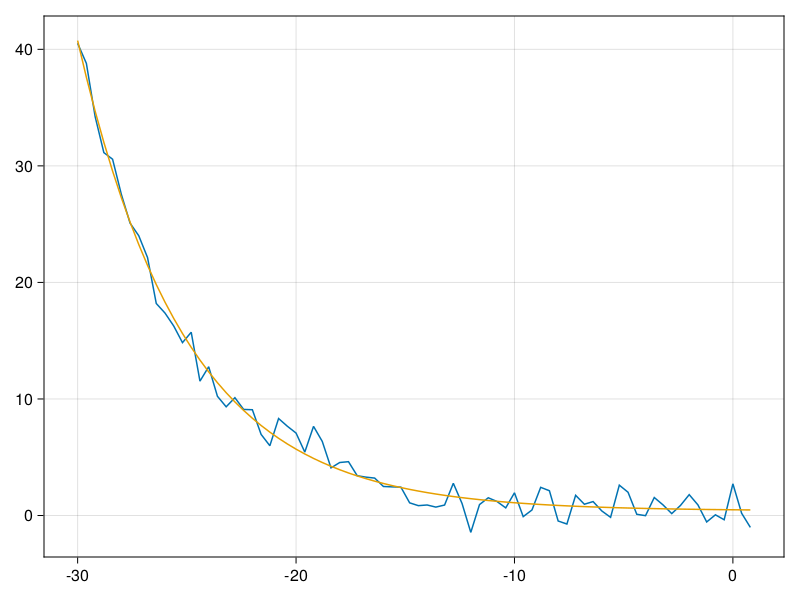
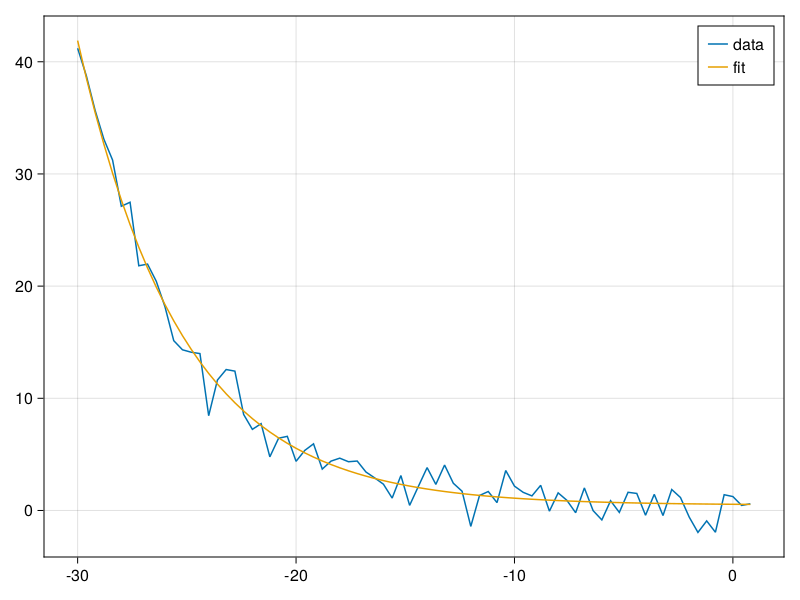
build based on 02fb032

diff --git a/dev/index.html b/dev/index.html
@@ -17,4 +17,4 @@ display(fig)
 ax = Axis(fig[1, 1])
 lines!(ax, xdata, ydata, label = &quot;data&quot;)
 lines!(ax, xdata, exponential(xdata, params), label = &quot;fit&quot;)
-axislegend(ax)</code></pre><p><img src="assets/fit.png" alt="exponential fit image"/></p><h2 id="General-Functions"><a class="docs-heading-anchor" href="#General-Functions">General Functions</a><a id="General-Functions-1"></a><a class="docs-heading-anchor-permalink" href="#General-Functions" title="Permalink"></a></h2><p>Common functions and lineshapes for spectroscopy.</p><article class="docstring"><header><a class="docstring-binding" id="Models.exponential-Tuple{Any}" href="#Models.exponential-Tuple{Any}"><code>Models.exponential</code></a> — <span class="docstring-category">Method</span></header><section><div><p>Exponential decay function</p><p><span>$f(x; f_0, \tau, y_0) = f_0 e^{-x / \tau} + y_0$</span></p><p><a href="https://en.wikipedia.org/wiki/Exponential_decay">https://en.wikipedia.org/wiki/Exponential_decay</a></p></div><a class="docs-sourcelink" target="_blank" href="https://github.com/garrekstemo/Models.jl/blob/4ae29effc984928fe6560df9f99cc352edb79af1/src/functions.jl#L1-L7">source</a></section></article><article class="docstring"><header><a class="docstring-binding" id="Models.double_exponential-Tuple{Any}" href="#Models.double_exponential-Tuple{Any}"><code>Models.double_exponential</code></a> — <span class="docstring-category">Method</span></header><section><div><p>Exponential decay function with two stages represented by two different time constants.</p><p><span>$f(x; f_1, \tau_1, f_2, \tau_2, y_0) = f_1 e^{-x / \tau_1} + f_2 e^{-x / \tau_2} + y_0$</span></p></div><a class="docs-sourcelink" target="_blank" href="https://github.com/garrekstemo/Models.jl/blob/4ae29effc984928fe6560df9f99cc352edb79af1/src/functions.jl#L12-L18">source</a></section></article><article class="docstring"><header><a class="docstring-binding" id="Models.gaussian-Tuple{Any}" href="#Models.gaussian-Tuple{Any}"><code>Models.gaussian</code></a> — <span class="docstring-category">Method</span></header><section><div><p>Gaussian function</p><p><span>$f(x; A, \mu, \sigma, y_0) = \frac{A}{\sigma \sqrt{2\pi}} e^{-(x - \mu)^2 / (2 \sigma^2)} + y_0$</span></p><p><a href="https://en.wikipedia.org/wiki/Gaussian_function">https://en.wikipedia.org/wiki/Gaussian_function</a></p></div><a class="docs-sourcelink" target="_blank" href="https://github.com/garrekstemo/Models.jl/blob/4ae29effc984928fe6560df9f99cc352edb79af1/src/functions.jl#L24-L30">source</a></section></article><article class="docstring"><header><a class="docstring-binding" id="Models.gaussian2d-Tuple{Any, Any}" href="#Models.gaussian2d-Tuple{Any, Any}"><code>Models.gaussian2d</code></a> — <span class="docstring-category">Method</span></header><section><div><p>Two-dimensional Gaussian function</p><p><span>$f(x, y; A, x_0, \sigma_x, y_0, \sigma_y, z_0) = A \exp\left(-\left( \frac{(x - x_0)^2}{2 \sigma_x^2} + \frac{(y - y_0)^2}{2 \sigma_y^2} \right)\right) + z_0$</span></p></div><a class="docs-sourcelink" target="_blank" href="https://github.com/garrekstemo/Models.jl/blob/4ae29effc984928fe6560df9f99cc352edb79af1/src/functions.jl#L36-L40">source</a></section></article><article class="docstring"><header><a class="docstring-binding" id="Models.lorentzian-Tuple{Any}" href="#Models.lorentzian-Tuple{Any}"><code>Models.lorentzian</code></a> — <span class="docstring-category">Method</span></header><section><div><p>Lorentzian function with amplitude <span>$A$</span>, center frequency <span>$\nu_0$</span>, and full width at half maximum (FWHM) <span>$2\gamma$</span>.</p><p><span>$f(\nu; A, \nu_0, \gamma, y_0) = \frac{A}{\pi} \frac{\gamma}{(\nu - \nu_0)^2 + \gamma^2} + y_0$</span></p><p><a href="https://en.wikipedia.org/wiki/Cauchy_distribution">https://en.wikipedia.org/wiki/Cauchy_distribution</a></p></div><a class="docs-sourcelink" target="_blank" href="https://github.com/garrekstemo/Models.jl/blob/4ae29effc984928fe6560df9f99cc352edb79af1/src/functions.jl#L53-L59">source</a></section></article><article class="docstring"><header><a class="docstring-binding" id="Models.double_lorentzian-Tuple{Any}" href="#Models.double_lorentzian-Tuple{Any}"><code>Models.double_lorentzian</code></a> — <span class="docstring-category">Method</span></header><section><div><p>Sum of two Lorentzian functions.</p></div><a class="docs-sourcelink" target="_blank" href="https://github.com/garrekstemo/Models.jl/blob/4ae29effc984928fe6560df9f99cc352edb79af1/src/functions.jl#L66-L68">source</a></section></article><article class="docstring"><header><a class="docstring-binding" id="Models.sine-Tuple{Any}" href="#Models.sine-Tuple{Any}"><code>Models.sine</code></a> — <span class="docstring-category">Method</span></header><section><div><p>Sinusoidal function.</p></div><a class="docs-sourcelink" target="_blank" href="https://github.com/garrekstemo/Models.jl/blob/4ae29effc984928fe6560df9f99cc352edb79af1/src/functions.jl#L75-L77">source</a></section></article><article class="docstring"><header><a class="docstring-binding" id="Models.squared_errors-NTuple{4, Any}" href="#Models.squared_errors-NTuple{4, Any}"><code>Models.squared_errors</code></a> — <span class="docstring-category">Method</span></header><section><div><p>Squared errors</p><p>Takes a function, <code>f</code>, and its parameters, <code>p</code> and sums the squared errors given x-data and y-data <code>X</code> and <code>Y</code>, respectively.</p></div><a class="docs-sourcelink" target="_blank" href="https://github.com/garrekstemo/Models.jl/blob/4ae29effc984928fe6560df9f99cc352edb79af1/src/functions.jl#L83-L89">source</a></section></article><h2 id="Special-Functions"><a class="docs-heading-anchor" href="#Special-Functions">Special Functions</a><a id="Special-Functions-1"></a><a class="docs-heading-anchor-permalink" href="#Special-Functions" title="Permalink"></a></h2><p>These function are specific to cavity polariton research, where things like the cavity transmittance, material dielectric function, and cavity free spectral range (FSR) need to be calculated and modeled.</p><article class="docstring"><header><a class="docstring-binding" id="Models.cavity_transmittance-Tuple{Any, Any}" href="#Models.cavity_transmittance-Tuple{Any, Any}"><code>Models.cavity_transmittance</code></a> — <span class="docstring-category">Method</span></header><section><div><p>Cavity transmittance as a function of frequency.</p><p><span>$T(\nu) = \frac{T^2 e^{-\alpha L}}{1 + R^2 e^{-2 \alpha L} - 2 R e^{-\alpha L} \cos(4\pi n L \nu + 2\phi)},$</span></p><p>where <span>$\nu$</span> is the frequency, <span>$\alpha$</span> and <span>$n$</span> are the frequency-dependent absorption and refractive index, <span>$L$</span> is the cavity length, and <span>$\phi$</span> is the phase accumulated upon reflection against a mirror. <span>$T$</span> and <span>$R$</span> are the cavity transmittance and reflectance, respectively, where it is assumed that <span>$T = 1 - R$</span>.</p></div><a class="docs-sourcelink" target="_blank" href="https://github.com/garrekstemo/Models.jl/blob/4ae29effc984928fe6560df9f99cc352edb79af1/src/special_functions.jl#L67-L76">source</a></section></article><article class="docstring"><header><a class="docstring-binding" id="Models.dielectric_real-Tuple{Any, Any}" href="#Models.dielectric_real-Tuple{Any, Any}"><code>Models.dielectric_real</code></a> — <span class="docstring-category">Method</span></header><section><div><p>Frequency-dependent real part of the dielectric function in terms of the background index and Lorentzian oscillator,</p><p><span>$\varepsilon_1(\nu) = n^2 + \frac{A (\nu_0^2 - \nu^2)}{(\nu^2 - \nu_0^2)^2 + (\Gamma\nu)^2},$</span></p><p>where <span>$n$</span> is the background real index, <span>$\nu_0$</span> is the excitation frequency, <span>$\Gamma$</span> is the line width of the oscillator, and <span>$A$</span> is the  oscillator strength.</p></div><a class="docs-sourcelink" target="_blank" href="https://github.com/garrekstemo/Models.jl/blob/4ae29effc984928fe6560df9f99cc352edb79af1/src/special_functions.jl#L1-L10">source</a></section></article><article class="docstring"><header><a class="docstring-binding" id="Models.dielectric_imag-Tuple{Any, Any}" href="#Models.dielectric_imag-Tuple{Any, Any}"><code>Models.dielectric_imag</code></a> — <span class="docstring-category">Method</span></header><section><div><p>Frequency-dependent imaginary part of the dielectric function.</p><p><span>$\varepsilon_2(\nu) = \frac{A \Gamma \nu}{(\nu^2 - \nu_0^2)^2 + (\Gamma\nu)^2}$</span></p></div><a class="docs-sourcelink" target="_blank" href="https://github.com/garrekstemo/Models.jl/blob/4ae29effc984928fe6560df9f99cc352edb79af1/src/special_functions.jl#L16-L20">source</a></section></article><article class="docstring"><header><a class="docstring-binding" id="Models.cavity_mode_energy-Tuple{Any, Any}" href="#Models.cavity_mode_energy-Tuple{Any, Any}"><code>Models.cavity_mode_energy</code></a> — <span class="docstring-category">Method</span></header><section><div><p>Cavity mode energy as a function of incident angle.</p><p><span>$E_\text{cavity}(\theta) = E_0 \left( 1 - \frac{\sin^2(\theta)}{n^2} \right)^{-1/2},$</span></p><p>where <span>$E_0$</span> is the energy of the cavity mode at zero degrees incidence angle.</p></div><a class="docs-sourcelink" target="_blank" href="https://github.com/garrekstemo/Models.jl/blob/4ae29effc984928fe6560df9f99cc352edb79af1/src/special_functions.jl#L26-L33">source</a></section></article><article class="docstring"><header><a class="docstring-binding" id="Models.coupled_energies" href="#Models.coupled_energies"><code>Models.coupled_energies</code></a> — <span class="docstring-category">Function</span></header><section><div><p>Coupled energies found by diagonalizing the coupled-oscillator model Hamiltonian:</p><p><span>$H =  \begin{pmatrix} E_c(\theta) &amp; V/2 \\V/2 &amp; E_v \end{pmatrix}.$</span></p><p>Diagonalizing <span>$H$</span> gives the interaction energies as a function of <span>$\theta$</span>. These exhibit avoided crossing behavior near  where the cavity mode energy equals the material excitation energy.</p><p><span>$V_{\pm}(\theta) = \frac{1}{2}(E_c(\theta) + E_v) \pm \frac{1}{2} \sqrt{(E_c(\theta) - E_v)^2 + V^2}$</span></p><p><a href="https://en.wikipedia.org/wiki/Avoided_crossing">https://en.wikipedia.org/wiki/Avoided_crossing</a></p></div><a class="docs-sourcelink" target="_blank" href="https://github.com/garrekstemo/Models.jl/blob/4ae29effc984928fe6560df9f99cc352edb79af1/src/special_functions.jl#L39-L56">source</a></section></article><article class="docstring"><header><a class="docstring-binding" id="Models.fsr-Tuple{Vector{Float64}}" href="#Models.fsr-Tuple{Vector{Float64}}"><code>Models.fsr</code></a> — <span class="docstring-category">Method</span></header><section><div><p>Find the free spectral range for all adjacent peaks. Return the list of FSRs, the average FSR for the range, and the standard deviation.</p></div><a class="docs-sourcelink" target="_blank" href="https://github.com/garrekstemo/Models.jl/blob/4ae29effc984928fe6560df9f99cc352edb79af1/src/special_functions.jl#L82-L86">source</a></section></article><article class="docstring"><header><a class="docstring-binding" id="Models.fsr-Tuple{Float64, Float64}" href="#Models.fsr-Tuple{Float64, Float64}"><code>Models.fsr</code></a> — <span class="docstring-category">Method</span></header><section><div><p>Solve for one of three variables in the equation     for free spectral range in terms of the other two.</p><p><span>$\Delta \nu = \frac{1}{2 L n},$</span></p><p>where <span>$\Delta\nu = |\nu_2 - \nu_2|$</span>, <span>$L$</span> is the intracavity length, and <span>$n$</span> is intracavity index of refraction.</p></div><a class="docs-sourcelink" target="_blank" href="https://github.com/garrekstemo/Models.jl/blob/4ae29effc984928fe6560df9f99cc352edb79af1/src/special_functions.jl#L98-L106">source</a></section></article></article><nav class="docs-footer"><p class="footer-message">Powered by <a href="https://github.com/JuliaDocs/Documenter.jl">Documenter.jl</a> and the <a href="https://julialang.org/">Julia Programming Language</a>.</p></nav></div><div class="modal" id="documenter-settings"><div class="modal-background"></div><div class="modal-card"><header class="modal-card-head"><p class="modal-card-title">Settings</p><button class="delete"></button></header><section class="modal-card-body"><p><label class="label">Theme</label><div class="select"><select id="documenter-themepicker"><option value="documenter-light">documenter-light</option><option value="documenter-dark">documenter-dark</option></select></div></p><hr/><p>This document was generated with <a href="https://github.com/JuliaDocs/Documenter.jl">Documenter.jl</a> version 0.27.19 on <span class="colophon-date" title="Tuesday 28 June 2022 10:27">Tuesday 28 June 2022</span>. Using Julia version 1.7.3.</p></section><footer class="modal-card-foot"></footer></div></div></div></body></html>
+axislegend(ax)</code></pre><p><img src="assets/fit.png" alt="exponential fit image"/></p><h2 id="General-Functions"><a class="docs-heading-anchor" href="#General-Functions">General Functions</a><a id="General-Functions-1"></a><a class="docs-heading-anchor-permalink" href="#General-Functions" title="Permalink"></a></h2><p>Common functions and lineshapes for spectroscopy.</p><article class="docstring"><header><a class="docstring-binding" id="Models.exponential-Tuple{Any}" href="#Models.exponential-Tuple{Any}"><code>Models.exponential</code></a> — <span class="docstring-category">Method</span></header><section><div><p>Exponential decay function</p><p><span>$f(x; f_0, \tau, y_0) = f_0 e^{-x / \tau} + y_0$</span></p><p><a href="https://en.wikipedia.org/wiki/Exponential_decay">https://en.wikipedia.org/wiki/Exponential_decay</a></p></div><a class="docs-sourcelink" target="_blank" href="https://github.com/garrekstemo/Models.jl/blob/02fb0327218c359a8229e184de1ef5021b25ce90/src/functions.jl#L1-L7">source</a></section></article><article class="docstring"><header><a class="docstring-binding" id="Models.double_exponential-Tuple{Any}" href="#Models.double_exponential-Tuple{Any}"><code>Models.double_exponential</code></a> — <span class="docstring-category">Method</span></header><section><div><p>Exponential decay function with two stages represented by two different time constants.</p><p><span>$f(x; f_1, \tau_1, f_2, \tau_2, y_0) = f_1 e^{-x / \tau_1} + f_2 e^{-x / \tau_2} + y_0$</span></p></div><a class="docs-sourcelink" target="_blank" href="https://github.com/garrekstemo/Models.jl/blob/02fb0327218c359a8229e184de1ef5021b25ce90/src/functions.jl#L12-L18">source</a></section></article><article class="docstring"><header><a class="docstring-binding" id="Models.gaussian-Tuple{Any}" href="#Models.gaussian-Tuple{Any}"><code>Models.gaussian</code></a> — <span class="docstring-category">Method</span></header><section><div><p>Gaussian function</p><p><span>$f(x; A, \mu, \sigma, y_0) = \frac{A}{\sigma \sqrt{2\pi}} e^{-(x - \mu)^2 / (2 \sigma^2)} + y_0$</span></p><p><a href="https://en.wikipedia.org/wiki/Gaussian_function">https://en.wikipedia.org/wiki/Gaussian_function</a></p></div><a class="docs-sourcelink" target="_blank" href="https://github.com/garrekstemo/Models.jl/blob/02fb0327218c359a8229e184de1ef5021b25ce90/src/functions.jl#L24-L30">source</a></section></article><article class="docstring"><header><a class="docstring-binding" id="Models.gaussian2d-Tuple{Any, Any}" href="#Models.gaussian2d-Tuple{Any, Any}"><code>Models.gaussian2d</code></a> — <span class="docstring-category">Method</span></header><section><div><p>Two-dimensional Gaussian function</p><p><span>$f(x, y; A, x_0, \sigma_x, y_0, \sigma_y, z_0) = A \exp\left(-\left( \frac{(x - x_0)^2}{2 \sigma_x^2} + \frac{(y - y_0)^2}{2 \sigma_y^2} \right)\right) + z_0$</span></p></div><a class="docs-sourcelink" target="_blank" href="https://github.com/garrekstemo/Models.jl/blob/02fb0327218c359a8229e184de1ef5021b25ce90/src/functions.jl#L36-L40">source</a></section></article><article class="docstring"><header><a class="docstring-binding" id="Models.lorentzian-Tuple{Any}" href="#Models.lorentzian-Tuple{Any}"><code>Models.lorentzian</code></a> — <span class="docstring-category">Method</span></header><section><div><p>Lorentzian function with amplitude <span>$A$</span>, center frequency <span>$\nu_0$</span>, and full width at half maximum (FWHM) <span>$2\gamma$</span>.</p><p><span>$f(\nu; A, \nu_0, \gamma, y_0) = \frac{A}{\pi} \frac{\gamma}{(\nu - \nu_0)^2 + \gamma^2} + y_0$</span></p><p><a href="https://en.wikipedia.org/wiki/Cauchy_distribution">https://en.wikipedia.org/wiki/Cauchy_distribution</a></p></div><a class="docs-sourcelink" target="_blank" href="https://github.com/garrekstemo/Models.jl/blob/02fb0327218c359a8229e184de1ef5021b25ce90/src/functions.jl#L53-L59">source</a></section></article><article class="docstring"><header><a class="docstring-binding" id="Models.double_lorentzian-Tuple{Any}" href="#Models.double_lorentzian-Tuple{Any}"><code>Models.double_lorentzian</code></a> — <span class="docstring-category">Method</span></header><section><div><p>Sum of two Lorentzian functions.</p></div><a class="docs-sourcelink" target="_blank" href="https://github.com/garrekstemo/Models.jl/blob/02fb0327218c359a8229e184de1ef5021b25ce90/src/functions.jl#L66-L68">source</a></section></article><article class="docstring"><header><a class="docstring-binding" id="Models.sine-Tuple{Any}" href="#Models.sine-Tuple{Any}"><code>Models.sine</code></a> — <span class="docstring-category">Method</span></header><section><div><p>Sinusoidal function.</p></div><a class="docs-sourcelink" target="_blank" href="https://github.com/garrekstemo/Models.jl/blob/02fb0327218c359a8229e184de1ef5021b25ce90/src/functions.jl#L75-L77">source</a></section></article><article class="docstring"><header><a class="docstring-binding" id="Models.squared_errors-NTuple{4, Any}" href="#Models.squared_errors-NTuple{4, Any}"><code>Models.squared_errors</code></a> — <span class="docstring-category">Method</span></header><section><div><p>Squared errors</p><p>Takes a function, <code>f</code>, and its parameters, <code>p</code> and sums the squared errors given x-data and y-data <code>X</code> and <code>Y</code>, respectively.</p></div><a class="docs-sourcelink" target="_blank" href="https://github.com/garrekstemo/Models.jl/blob/02fb0327218c359a8229e184de1ef5021b25ce90/src/functions.jl#L83-L89">source</a></section></article><h2 id="Special-Functions"><a class="docs-heading-anchor" href="#Special-Functions">Special Functions</a><a id="Special-Functions-1"></a><a class="docs-heading-anchor-permalink" href="#Special-Functions" title="Permalink"></a></h2><p>These function are specific to cavity polariton research, where things like the cavity transmittance, material dielectric function, and cavity free spectral range (FSR) need to be calculated and modeled.</p><article class="docstring"><header><a class="docstring-binding" id="Models.cavity_transmittance-Tuple{Any, Any}" href="#Models.cavity_transmittance-Tuple{Any, Any}"><code>Models.cavity_transmittance</code></a> — <span class="docstring-category">Method</span></header><section><div><p>Cavity transmittance as a function of frequency.</p><p><span>$T(\nu) = \frac{T^2 e^{-\alpha L}}{1 + R^2 e^{-2 \alpha L} - 2 R e^{-\alpha L} \cos(4\pi n L \nu + 2\phi)},$</span></p><p>where <span>$\nu$</span> is the frequency, <span>$\alpha$</span> and <span>$n$</span> are the frequency-dependent absorption and refractive index, <span>$L$</span> is the cavity length, and <span>$\phi$</span> is the phase accumulated upon reflection against a mirror. <span>$T$</span> and <span>$R$</span> are the cavity transmittance and reflectance, respectively, where it is assumed that <span>$T = 1 - R$</span>.</p></div><a class="docs-sourcelink" target="_blank" href="https://github.com/garrekstemo/Models.jl/blob/02fb0327218c359a8229e184de1ef5021b25ce90/src/special_functions.jl#L67-L76">source</a></section></article><article class="docstring"><header><a class="docstring-binding" id="Models.dielectric_real-Tuple{Any, Any}" href="#Models.dielectric_real-Tuple{Any, Any}"><code>Models.dielectric_real</code></a> — <span class="docstring-category">Method</span></header><section><div><p>Frequency-dependent real part of the dielectric function in terms of the background index and Lorentzian oscillator,</p><p><span>$\varepsilon_1(\nu) = n^2 + \frac{A (\nu_0^2 - \nu^2)}{(\nu^2 - \nu_0^2)^2 + (\Gamma\nu)^2},$</span></p><p>where <span>$n$</span> is the background real index, <span>$\nu_0$</span> is the excitation frequency, <span>$\Gamma$</span> is the line width of the oscillator, and <span>$A$</span> is the  oscillator strength.</p></div><a class="docs-sourcelink" target="_blank" href="https://github.com/garrekstemo/Models.jl/blob/02fb0327218c359a8229e184de1ef5021b25ce90/src/special_functions.jl#L1-L10">source</a></section></article><article class="docstring"><header><a class="docstring-binding" id="Models.dielectric_imag-Tuple{Any, Any}" href="#Models.dielectric_imag-Tuple{Any, Any}"><code>Models.dielectric_imag</code></a> — <span class="docstring-category">Method</span></header><section><div><p>Frequency-dependent imaginary part of the dielectric function.</p><p><span>$\varepsilon_2(\nu) = \frac{A \Gamma \nu}{(\nu^2 - \nu_0^2)^2 + (\Gamma\nu)^2}$</span></p></div><a class="docs-sourcelink" target="_blank" href="https://github.com/garrekstemo/Models.jl/blob/02fb0327218c359a8229e184de1ef5021b25ce90/src/special_functions.jl#L16-L20">source</a></section></article><article class="docstring"><header><a class="docstring-binding" id="Models.cavity_mode_energy-Tuple{Any, Any}" href="#Models.cavity_mode_energy-Tuple{Any, Any}"><code>Models.cavity_mode_energy</code></a> — <span class="docstring-category">Method</span></header><section><div><p>Cavity mode energy as a function of incident angle.</p><p><span>$E_\text{cavity}(\theta) = E_0 \left( 1 - \frac{\sin^2(\theta)}{n^2} \right)^{-1/2},$</span></p><p>where <span>$E_0$</span> is the energy of the cavity mode at zero degrees incidence angle.</p></div><a class="docs-sourcelink" target="_blank" href="https://github.com/garrekstemo/Models.jl/blob/02fb0327218c359a8229e184de1ef5021b25ce90/src/special_functions.jl#L26-L33">source</a></section></article><article class="docstring"><header><a class="docstring-binding" id="Models.coupled_energies" href="#Models.coupled_energies"><code>Models.coupled_energies</code></a> — <span class="docstring-category">Function</span></header><section><div><p>Coupled energies found by diagonalizing the coupled-oscillator model Hamiltonian:</p><p><span>$H =  \begin{pmatrix} E_c(\theta) &amp; V/2 \\V/2 &amp; E_v \end{pmatrix}.$</span></p><p>Diagonalizing <span>$H$</span> gives the interaction energies as a function of <span>$\theta$</span>. These exhibit avoided crossing behavior near  where the cavity mode energy equals the material excitation energy.</p><p><span>$V_{\pm}(\theta) = \frac{1}{2}(E_c(\theta) + E_v) \pm \frac{1}{2} \sqrt{(E_c(\theta) - E_v)^2 + V^2}$</span></p><p><a href="https://en.wikipedia.org/wiki/Avoided_crossing">https://en.wikipedia.org/wiki/Avoided_crossing</a></p></div><a class="docs-sourcelink" target="_blank" href="https://github.com/garrekstemo/Models.jl/blob/02fb0327218c359a8229e184de1ef5021b25ce90/src/special_functions.jl#L39-L56">source</a></section></article><article class="docstring"><header><a class="docstring-binding" id="Models.fsr-Tuple{Vector{Float64}}" href="#Models.fsr-Tuple{Vector{Float64}}"><code>Models.fsr</code></a> — <span class="docstring-category">Method</span></header><section><div><p>Find the free spectral range for all adjacent peaks. Return the list of FSRs, the average FSR for the range, and the standard deviation.</p></div><a class="docs-sourcelink" target="_blank" href="https://github.com/garrekstemo/Models.jl/blob/02fb0327218c359a8229e184de1ef5021b25ce90/src/special_functions.jl#L82-L86">source</a></section></article><article class="docstring"><header><a class="docstring-binding" id="Models.fsr-Tuple{Float64, Float64}" href="#Models.fsr-Tuple{Float64, Float64}"><code>Models.fsr</code></a> — <span class="docstring-category">Method</span></header><section><div><p>Solve for one of three variables in the equation     for free spectral range in terms of the other two.</p><p><span>$\Delta \nu = \frac{1}{2 L n},$</span></p><p>where <span>$\Delta\nu = |\nu_2 - \nu_2|$</span>, <span>$L$</span> is the intracavity length, and <span>$n$</span> is intracavity index of refraction.</p></div><a class="docs-sourcelink" target="_blank" href="https://github.com/garrekstemo/Models.jl/blob/02fb0327218c359a8229e184de1ef5021b25ce90/src/special_functions.jl#L98-L106">source</a></section></article></article><nav class="docs-footer"><p class="footer-message">Powered by <a href="https://github.com/JuliaDocs/Documenter.jl">Documenter.jl</a> and the <a href="https://julialang.org/">Julia Programming Language</a>.</p></nav></div><div class="modal" id="documenter-settings"><div class="modal-background"></div><div class="modal-card"><header class="modal-card-head"><p class="modal-card-title">Settings</p><button class="delete"></button></header><section class="modal-card-body"><p><label class="label">Theme</label><div class="select"><select id="documenter-themepicker"><option value="documenter-light">documenter-light</option><option value="documenter-dark">documenter-dark</option></select></div></p><hr/><p>This document was generated with <a href="https://github.com/JuliaDocs/Documenter.jl">Documenter.jl</a> version 0.27.19 on <span class="colophon-date" title="Tuesday 28 June 2022 10:29">Tuesday 28 June 2022</span>. Using Julia version 1.7.3.</p></section><footer class="modal-card-foot"></footer></div></div></div></body></html>

diff --git a/dev/search/index.html b/dev/search/index.html
@@ -1,2 +1,2 @@
 <!DOCTYPE html>
-<html lang="en"><head><meta charset="UTF-8"/><meta name="viewport" content="width=device-width, initial-scale=1.0"/><title>Search · Models.jl</title><script data-outdated-warner src="../assets/warner.js"></script><link href="https://cdnjs.cloudflare.com/ajax/libs/lato-font/3.0.0/css/lato-font.min.css" rel="stylesheet" type="text/css"/><link href="https://cdnjs.cloudflare.com/ajax/libs/juliamono/0.044/juliamono.css" rel="stylesheet" type="text/css"/><link href="https://cdnjs.cloudflare.com/ajax/libs/font-awesome/5.15.3/css/fontawesome.min.css" rel="stylesheet" type="text/css"/><link href="https://cdnjs.cloudflare.com/ajax/libs/font-awesome/5.15.3/css/solid.min.css" rel="stylesheet" type="text/css"/><link href="https://cdnjs.cloudflare.com/ajax/libs/font-awesome/5.15.3/css/brands.min.css" rel="stylesheet" type="text/css"/><link href="https://cdnjs.cloudflare.com/ajax/libs/KaTeX/0.13.11/katex.min.css" rel="stylesheet" type="text/css"/><script>documenterBaseURL=".."</script><script src="https://cdnjs.cloudflare.com/ajax/libs/require.js/2.3.6/require.min.js" data-main="../assets/documenter.js"></script><script src="../siteinfo.js"></script><script src="../../versions.js"></script><link class="docs-theme-link" rel="stylesheet" type="text/css" href="../assets/themes/documenter-dark.css" data-theme-name="documenter-dark" data-theme-primary-dark/><link class="docs-theme-link" rel="stylesheet" type="text/css" href="../assets/themes/documenter-light.css" data-theme-name="documenter-light" data-theme-primary/><script src="../assets/themeswap.js"></script></head><body><div id="documenter"><nav class="docs-sidebar"><div class="docs-package-name"><span class="docs-autofit"><a href="../">Models.jl</a></span></div><form class="docs-search" action><input class="docs-search-query" id="documenter-search-query" name="q" type="text" placeholder="Search docs"/></form><ul class="docs-menu"><li><a class="tocitem" href="../">Models.jl Documentation</a></li></ul><div class="docs-version-selector field has-addons"><div class="control"><span class="docs-label button is-static is-size-7">Version</span></div><div class="docs-selector control is-expanded"><div class="select is-fullwidth is-size-7"><select id="documenter-version-selector"></select></div></div></div></nav><div class="docs-main"><header class="docs-navbar"><nav class="breadcrumb"><ul class="is-hidden-mobile"><li class="is-active"><a href>Search</a></li></ul><ul class="is-hidden-tablet"><li class="is-active"><a href>Search</a></li></ul></nav><div class="docs-right"><a class="docs-settings-button fas fa-cog" id="documenter-settings-button" href="#" title="Settings"></a><a class="docs-sidebar-button fa fa-bars is-hidden-desktop" id="documenter-sidebar-button" href="#"></a></div></header><article><p id="documenter-search-info">Loading search...</p><ul id="documenter-search-results"></ul></article><nav class="docs-footer"><p class="footer-message">Powered by <a href="https://github.com/JuliaDocs/Documenter.jl">Documenter.jl</a> and the <a href="https://julialang.org/">Julia Programming Language</a>.</p></nav></div><div class="modal" id="documenter-settings"><div class="modal-background"></div><div class="modal-card"><header class="modal-card-head"><p class="modal-card-title">Settings</p><button class="delete"></button></header><section class="modal-card-body"><p><label class="label">Theme</label><div class="select"><select id="documenter-themepicker"><option value="documenter-light">documenter-light</option><option value="documenter-dark">documenter-dark</option></select></div></p><hr/><p>This document was generated with <a href="https://github.com/JuliaDocs/Documenter.jl">Documenter.jl</a> version 0.27.19 on <span class="colophon-date" title="Tuesday 28 June 2022 10:27">Tuesday 28 June 2022</span>. Using Julia version 1.7.3.</p></section><footer class="modal-card-foot"></footer></div></div></div></body><script src="../search_index.js"></script><script src="../assets/search.js"></script></html>
+<html lang="en"><head><meta charset="UTF-8"/><meta name="viewport" content="width=device-width, initial-scale=1.0"/><title>Search · Models.jl</title><script data-outdated-warner src="../assets/warner.js"></script><link href="https://cdnjs.cloudflare.com/ajax/libs/lato-font/3.0.0/css/lato-font.min.css" rel="stylesheet" type="text/css"/><link href="https://cdnjs.cloudflare.com/ajax/libs/juliamono/0.044/juliamono.css" rel="stylesheet" type="text/css"/><link href="https://cdnjs.cloudflare.com/ajax/libs/font-awesome/5.15.3/css/fontawesome.min.css" rel="stylesheet" type="text/css"/><link href="https://cdnjs.cloudflare.com/ajax/libs/font-awesome/5.15.3/css/solid.min.css" rel="stylesheet" type="text/css"/><link href="https://cdnjs.cloudflare.com/ajax/libs/font-awesome/5.15.3/css/brands.min.css" rel="stylesheet" type="text/css"/><link href="https://cdnjs.cloudflare.com/ajax/libs/KaTeX/0.13.11/katex.min.css" rel="stylesheet" type="text/css"/><script>documenterBaseURL=".."</script><script src="https://cdnjs.cloudflare.com/ajax/libs/require.js/2.3.6/require.min.js" data-main="../assets/documenter.js"></script><script src="../siteinfo.js"></script><script src="../../versions.js"></script><link class="docs-theme-link" rel="stylesheet" type="text/css" href="../assets/themes/documenter-dark.css" data-theme-name="documenter-dark" data-theme-primary-dark/><link class="docs-theme-link" rel="stylesheet" type="text/css" href="../assets/themes/documenter-light.css" data-theme-name="documenter-light" data-theme-primary/><script src="../assets/themeswap.js"></script></head><body><div id="documenter"><nav class="docs-sidebar"><div class="docs-package-name"><span class="docs-autofit"><a href="../">Models.jl</a></span></div><form class="docs-search" action><input class="docs-search-query" id="documenter-search-query" name="q" type="text" placeholder="Search docs"/></form><ul class="docs-menu"><li><a class="tocitem" href="../">Models.jl Documentation</a></li></ul><div class="docs-version-selector field has-addons"><div class="control"><span class="docs-label button is-static is-size-7">Version</span></div><div class="docs-selector control is-expanded"><div class="select is-fullwidth is-size-7"><select id="documenter-version-selector"></select></div></div></div></nav><div class="docs-main"><header class="docs-navbar"><nav class="breadcrumb"><ul class="is-hidden-mobile"><li class="is-active"><a href>Search</a></li></ul><ul class="is-hidden-tablet"><li class="is-active"><a href>Search</a></li></ul></nav><div class="docs-right"><a class="docs-settings-button fas fa-cog" id="documenter-settings-button" href="#" title="Settings"></a><a class="docs-sidebar-button fa fa-bars is-hidden-desktop" id="documenter-sidebar-button" href="#"></a></div></header><article><p id="documenter-search-info">Loading search...</p><ul id="documenter-search-results"></ul></article><nav class="docs-footer"><p class="footer-message">Powered by <a href="https://github.com/JuliaDocs/Documenter.jl">Documenter.jl</a> and the <a href="https://julialang.org/">Julia Programming Language</a>.</p></nav></div><div class="modal" id="documenter-settings"><div class="modal-background"></div><div class="modal-card"><header class="modal-card-head"><p class="modal-card-title">Settings</p><button class="delete"></button></header><section class="modal-card-body"><p><label class="label">Theme</label><div class="select"><select id="documenter-themepicker"><option value="documenter-light">documenter-light</option><option value="documenter-dark">documenter-dark</option></select></div></p><hr/><p>This document was generated with <a href="https://github.com/JuliaDocs/Documenter.jl">Documenter.jl</a> version 0.27.19 on <span class="colophon-date" title="Tuesday 28 June 2022 10:29">Tuesday 28 June 2022</span>. Using Julia version 1.7.3.</p></section><footer class="modal-card-foot"></footer></div></div></div></body><script src="../search_index.js"></script><script src="../assets/search.js"></script></html>
